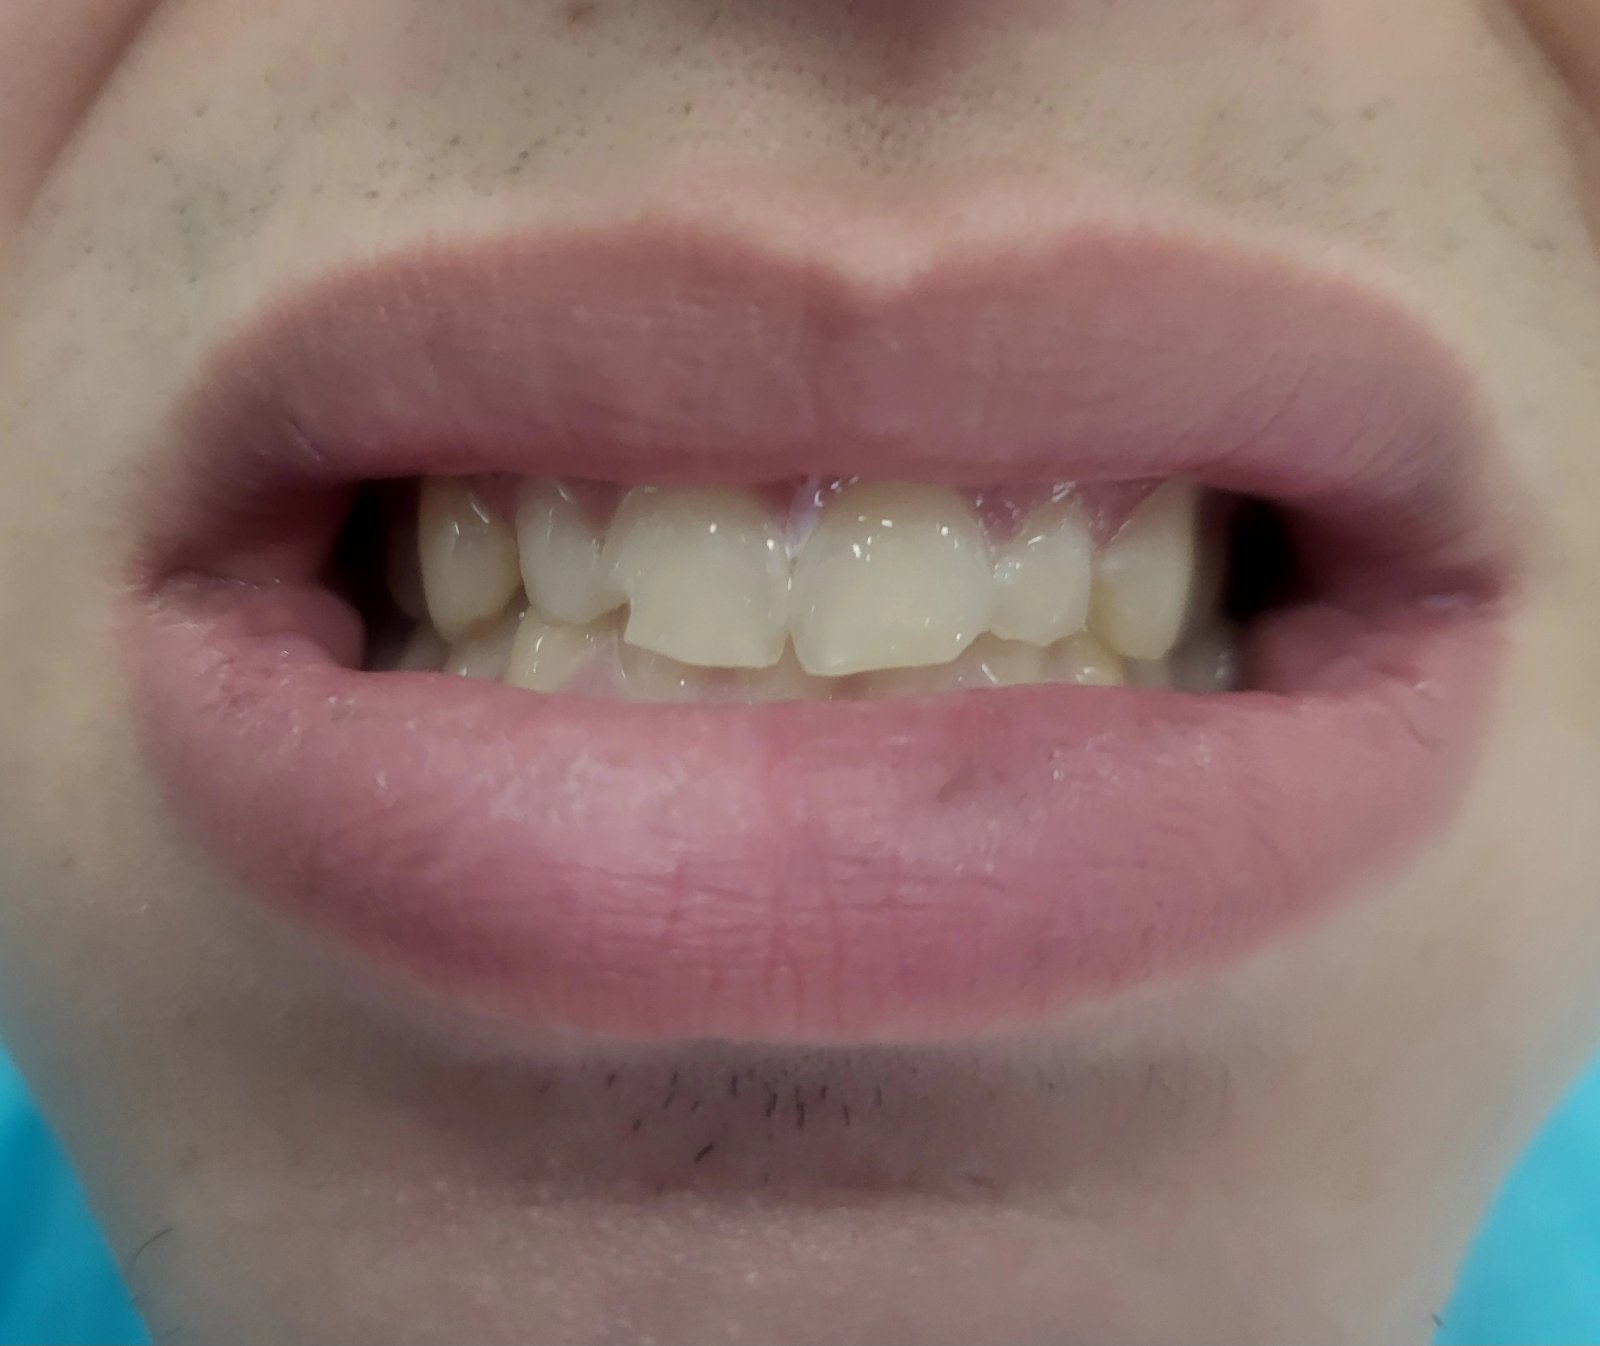
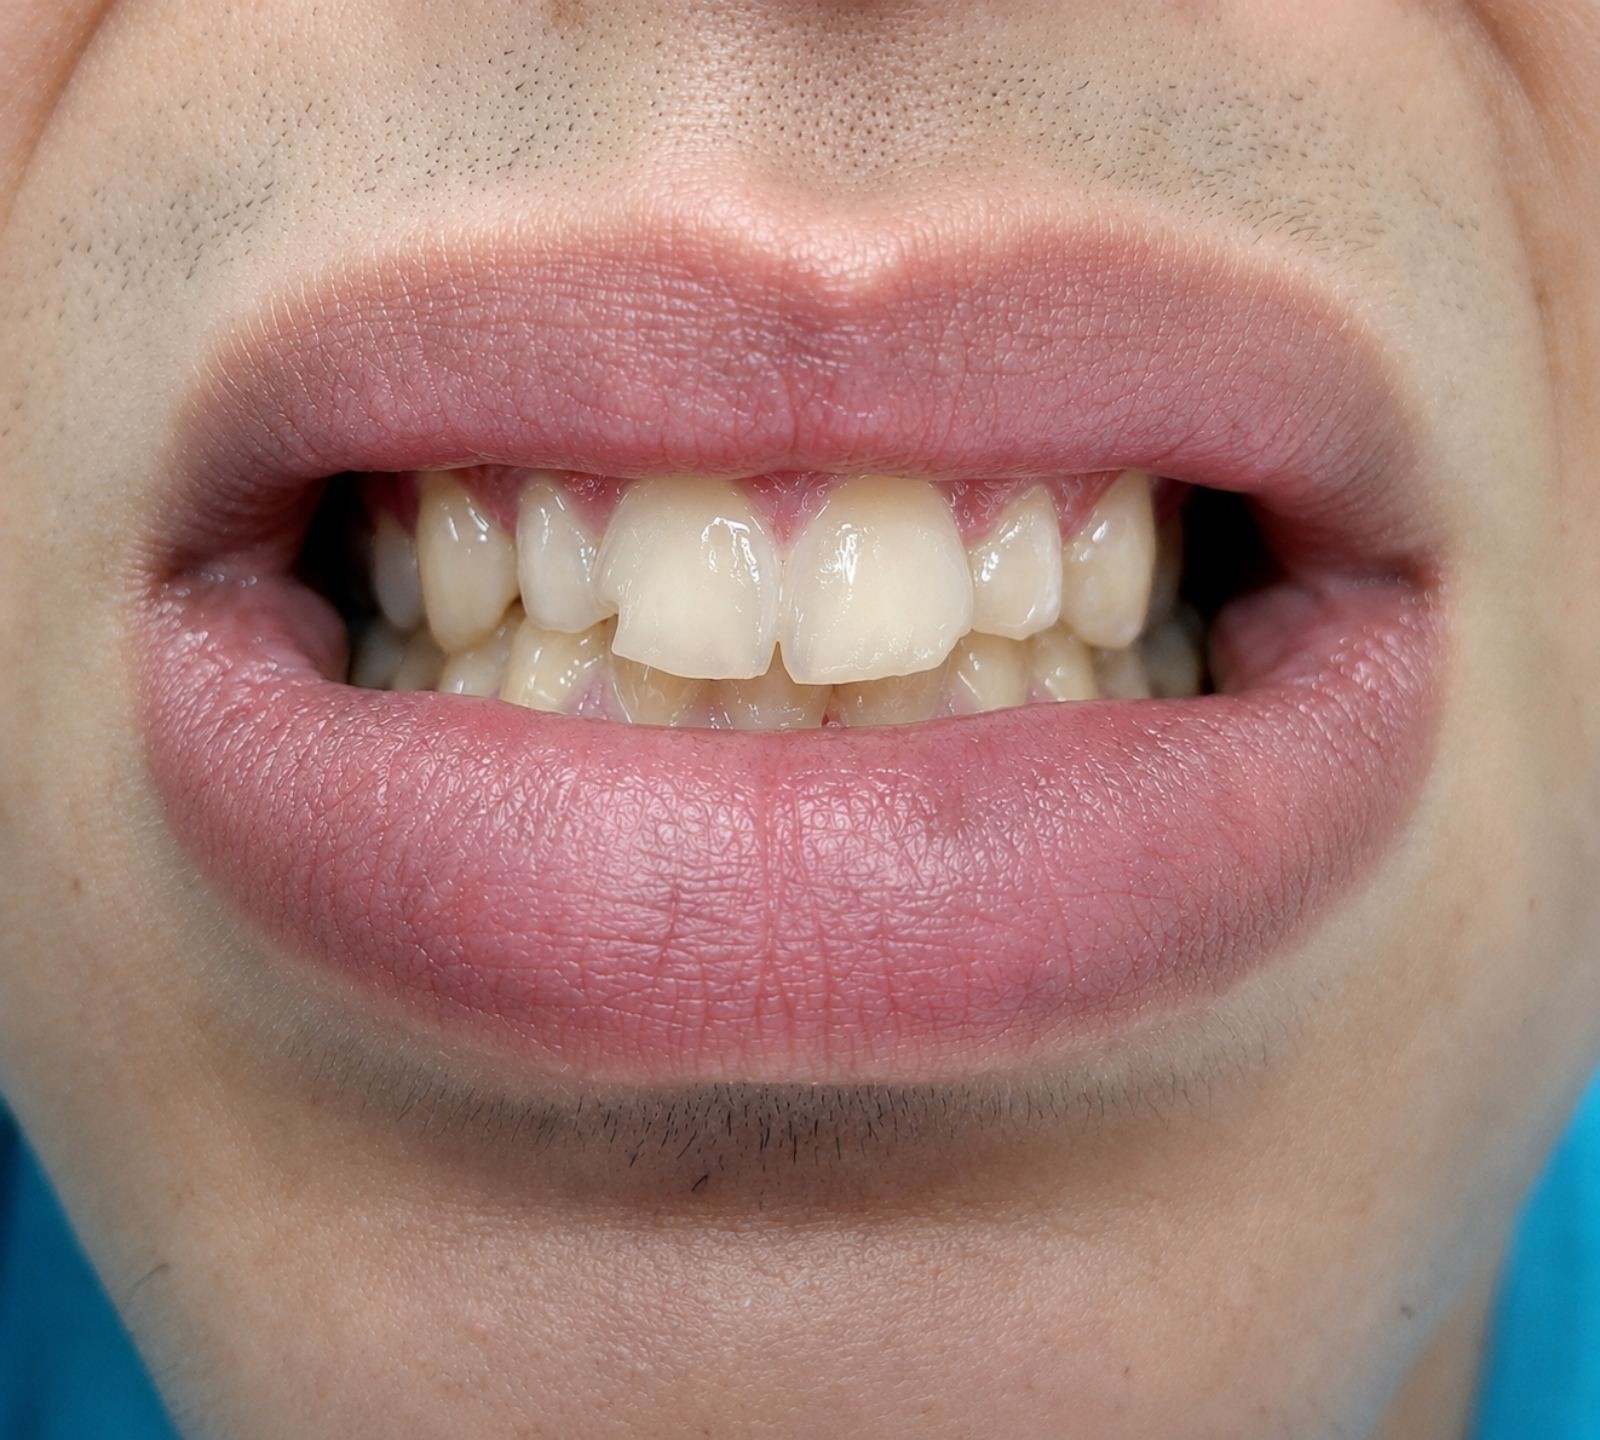
Update before-after image styles for improved visual presentation in gallery

diff --git a/mk/gallery.html b/mk/gallery.html
@@ -202,13 +202,14 @@
                                 <!-- ПОТОА (долен слој — целосна ширина) -->
                                 <img :src="item.after" :alt="'Потоа — ' + item.title"
                                     class="absolute inset-0 w-full h-full object-cover"
-                                    style="transform: translate(-15px, -25px) scale(1.24); transform-origin: center center;" />
+                                    style="transform: translate(-15px, -25px) scale(1.08); transform-origin: center center;" />
 
                                 <!-- ПРЕД (горен слој — исечен за да прикажува лев дел) -->
                                 <div class="absolute inset-0 overflow-hidden"
                                     :style="`clip-path: inset(0 ${100 - pos}% 0 0)`">
                                     <img :src="item.before" :alt="'Пред — ' + item.title"
-                                        class="absolute inset-0 w-full h-full object-cover" />
+                                        class="absolute inset-0 w-full h-full object-cover"
+                                        style="transform: translateY(18px) scale(1.28); transform-origin: center center;" />
                                 </div>
 
                                 <!-- Линија-делител -->

diff --git a/en/gallery.html b/en/gallery.html
@@ -207,13 +207,14 @@
                                 <!-- AFTER (bottom layer — full width) -->
                                 <img :src="item.after" :alt="'After — ' + item.title"
                                     class="absolute inset-0 w-full h-full object-cover"
-                                    style="transform: translate(-15px, -25px) scale(1.24); transform-origin: center center;" />
+                                    style="transform: translate(-15px, -25px) scale(1.08); transform-origin: center center;" />
 
                                 <!-- BEFORE (top layer — clipped to show left portion) -->
                                 <div class="absolute inset-0 overflow-hidden"
                                     :style="`clip-path: inset(0 ${100 - pos}% 0 0)`">
                                     <img :src="item.before" :alt="'Before — ' + item.title"
-                                        class="absolute inset-0 w-full h-full object-cover" />
+                                        class="absolute inset-0 w-full h-full object-cover"
+                                        style="transform: translateY(18px) scale(1.28); transform-origin: center center;" />
                                 </div>
 
                                 <!-- Divider line -->
